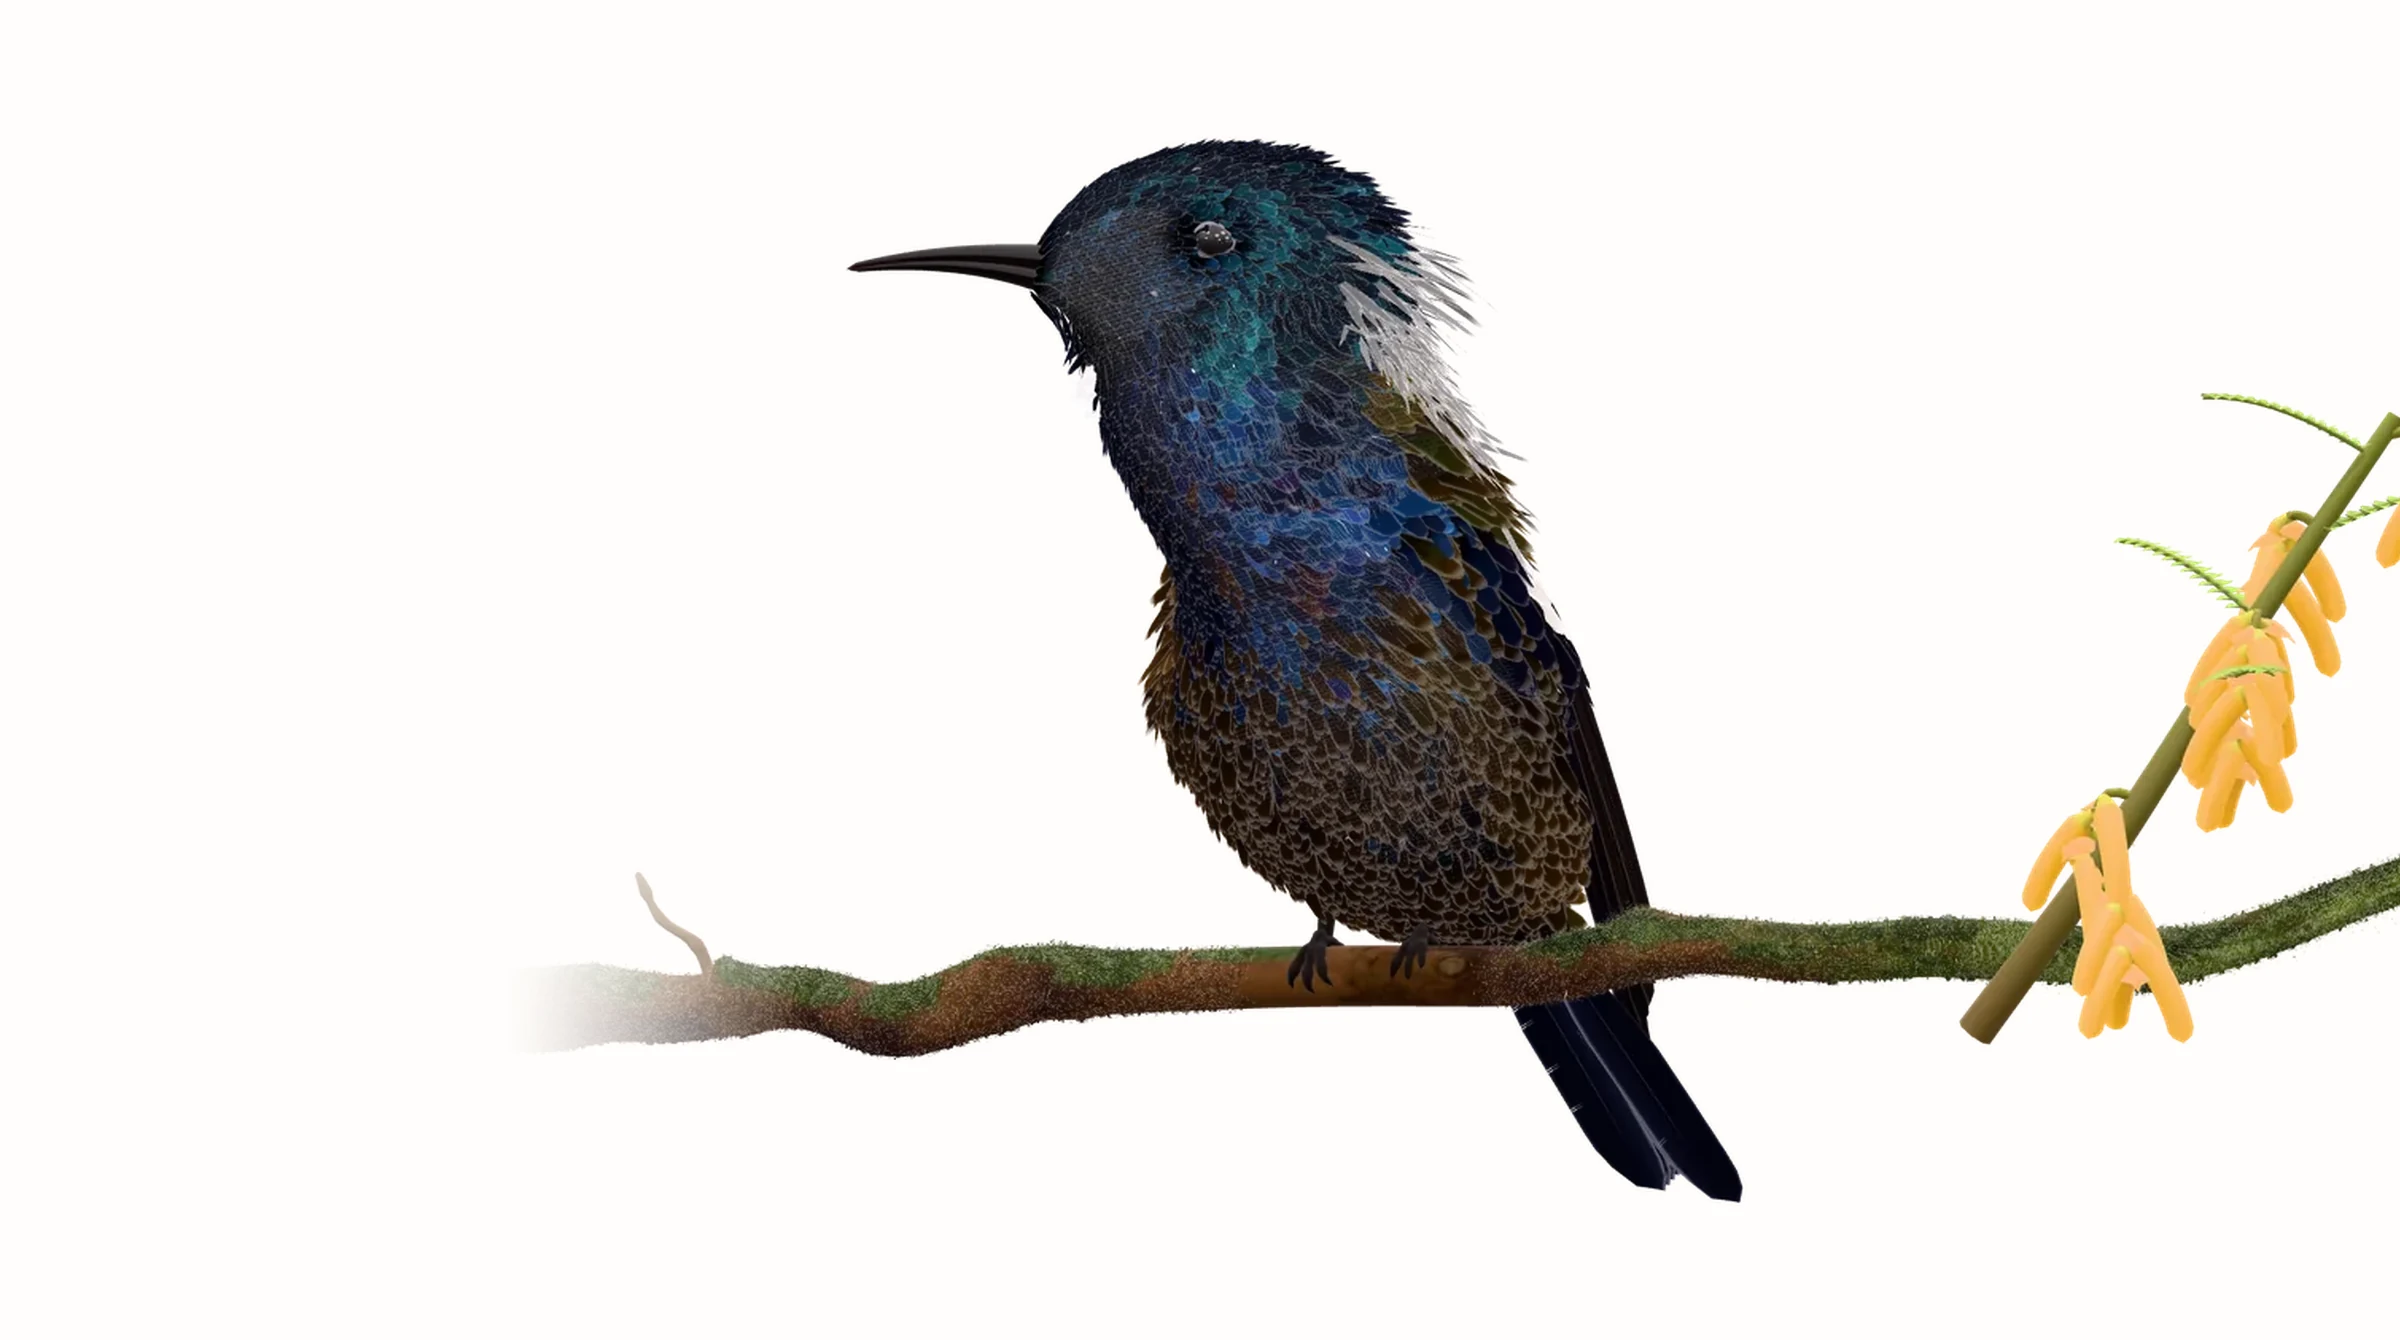
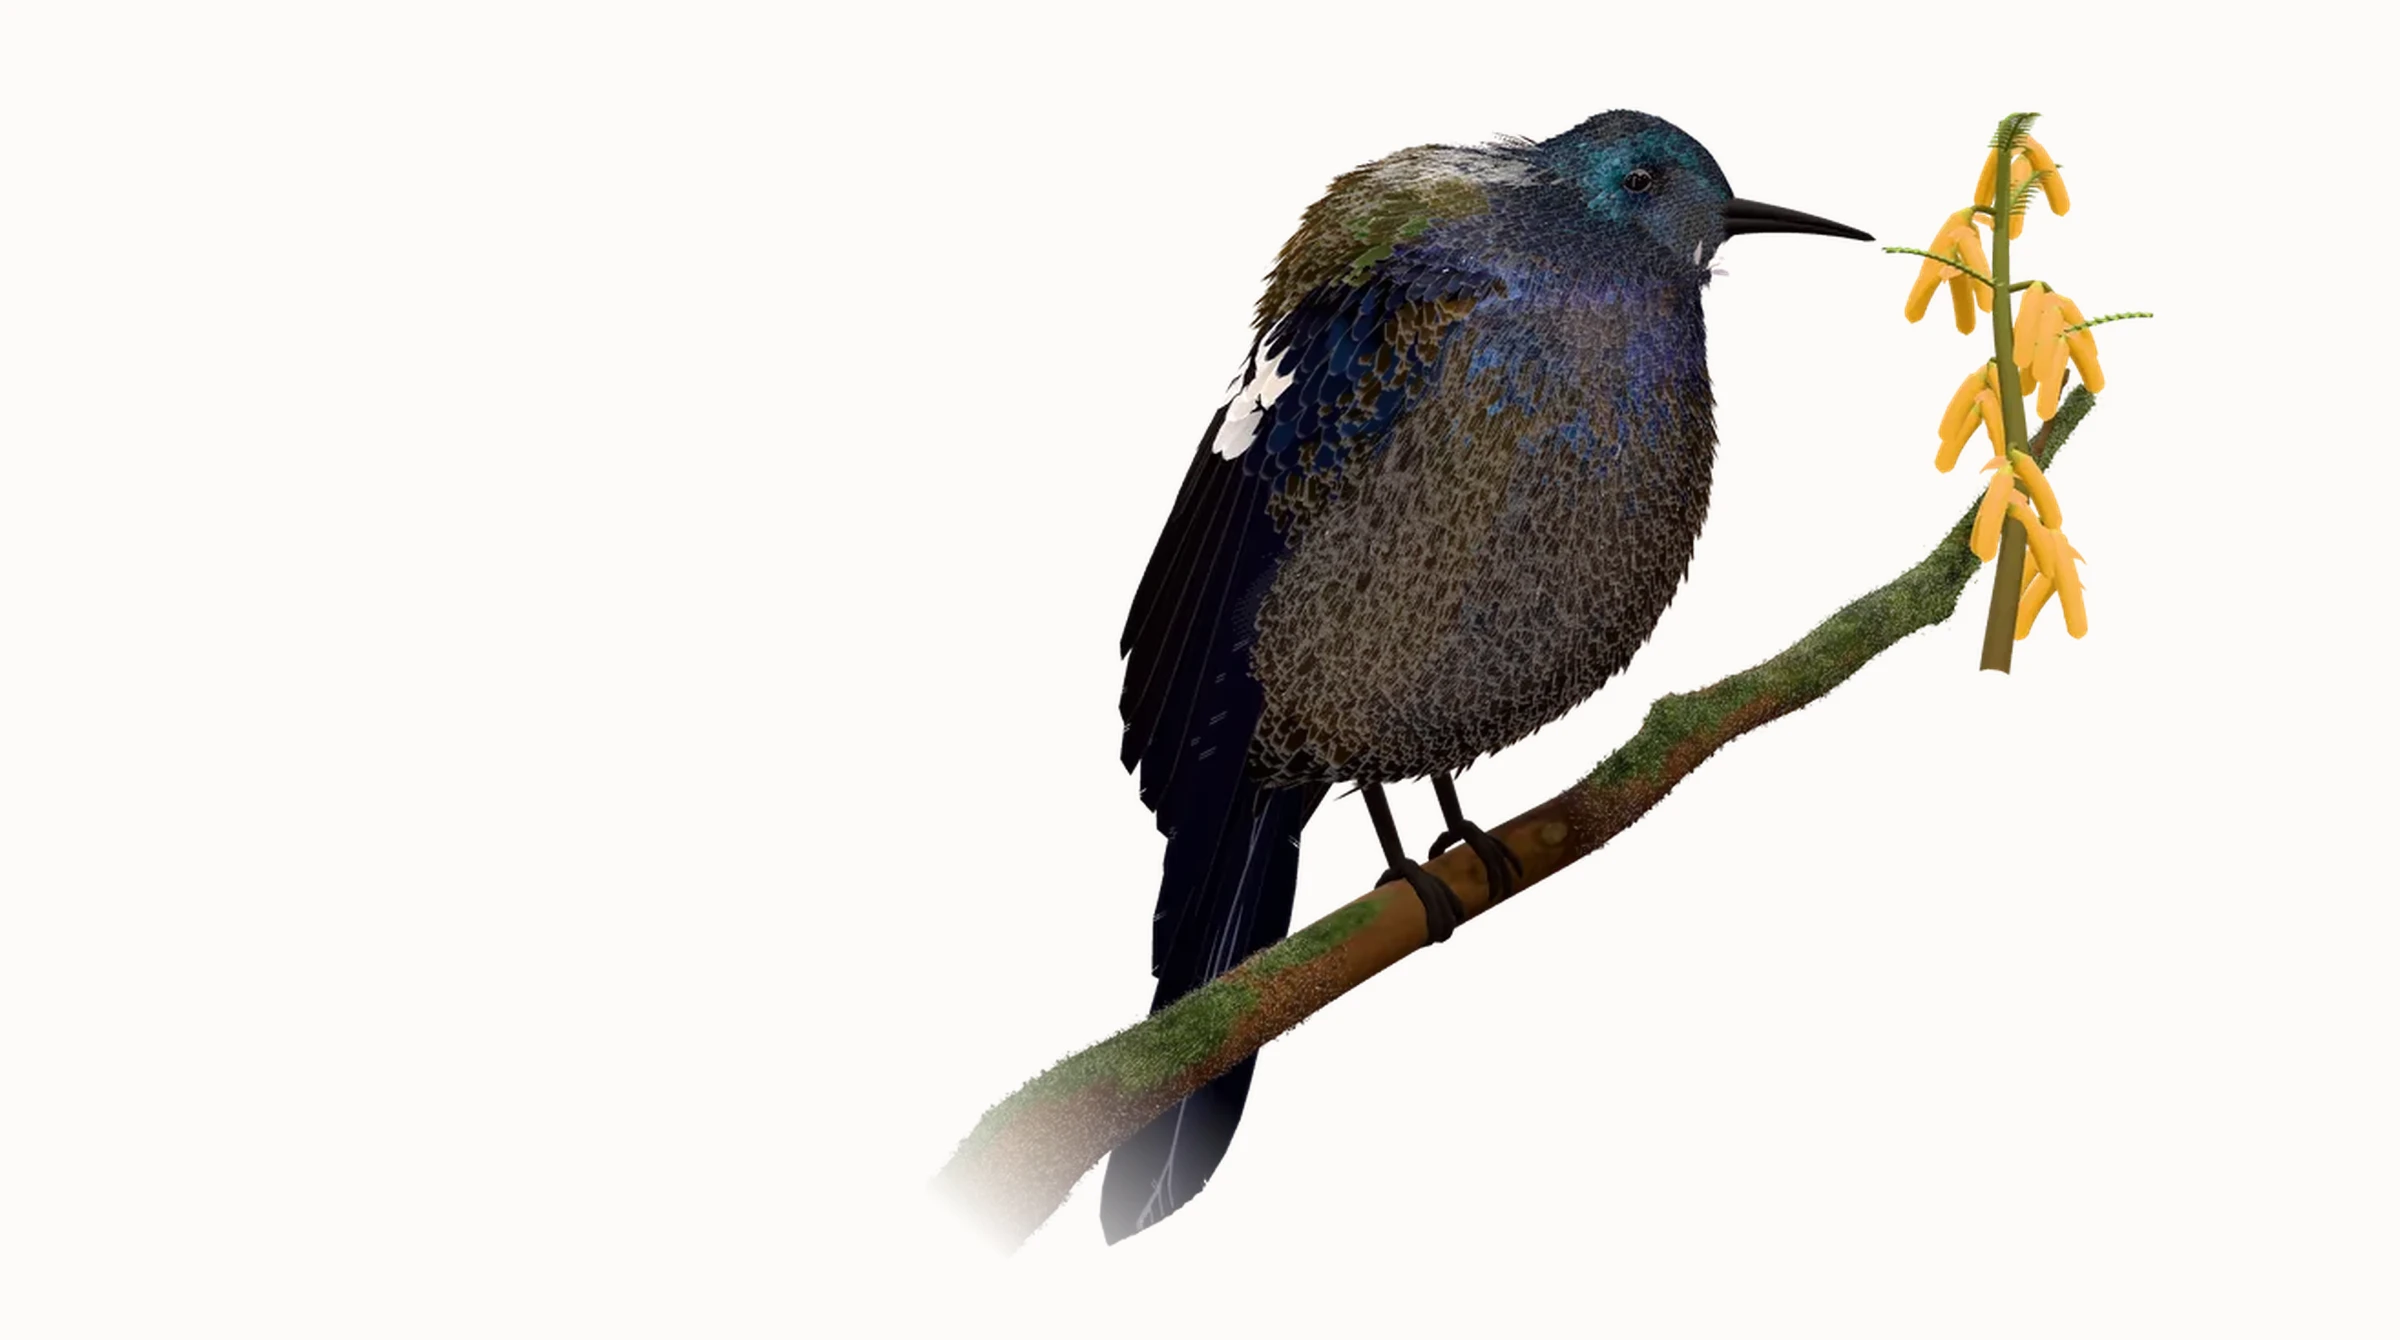
Lab home: the rebuilt tūī on the Manu window, no patchy colour on hover
Claude-Session: https://claude.ai/code/session_01Qg5XxSRkFNw1UTNv1sp8XK

Changed region(s): [[0.2188, 0.0612, 1.0, 0.9179], [0.9062, 0.2754, 0.9375, 0.306]]

diff --git a/lab/v3/field.js b/lab/v3/field.js
@@ -9,7 +9,7 @@ const canvas = document.getElementById("field");
 const windows = [...document.querySelectorAll("[data-scene]")];
 // the lab's pictures: each world as it really runs (captured from the live pages), shown in the three shades until you
 // point at it; Plan Studio's floor plan has its 3D model underneath
-const V = "?v=20261122a";   // pictures are versioned so a browser never mixes an old picture with a new page
+const V = "?v=20261123b";   // pictures are versioned so a browser never mixes an old picture with a new page
 const IMG = (n) => `/lab/v3/img/${n}.webp${V}`;
 // the lab's two worlds: the 16A floor plan drawn from its plan model, with the three.js model built from it underneath;
 // Manu's birds as they render on their own pages; assembl's own house sketches to close; and, to open, the plan drop
@@ -20,6 +20,8 @@ const UNDER = { plan16a: "model16a" };              // the plan, with the model 
 const FOCUS = { house: [0.2, 0], birds: [0.16, 0], plan16a: [0.3, 0], model16a: [0.1, 0], tui: [0.2, 0], sketches: [0.3, 0] };
 const MIST = { house: 1, birds: 1, plan16a: 1, tui: 1, sketches: 0.6 };
 const LIFT = {};
+// pictures that do not turn over under the pointer (a photo-real model reads as broken when patches of it change colour)
+const NOHOVER = new Set(["tui"]);
 
 function fallback() {
   document.documentElement.classList.add("no-field");
@@ -105,7 +107,7 @@ else {
     for (let k = 0; k < gridN; k++) {
       const cx = (k % gridCols + 0.5) * tile - px, cy = (Math.floor(k / gridCols) + 0.5) * tile - py;
       const passed = wave >= order[k], all = waveT0 ? (allOn ? passed : !passed) : false;
-      const want = (cx * cx + cy * cy < R2 || all) ? 1 : 0, v = flipV[k];
+      const want = ((!NOHOVER.has(current) && cx * cx + cy * cy < R2) || all) ? 1 : 0, v = flipV[k];
       if (v !== want) { flipV[k] = want > v ? Math.min(1, v + step) : Math.max(0, v - step); busy = true; }
     }
     if (wave > 0 && wave < 1.2) busy = true; else if (wave >= 1.2 && !allOn) waveT0 = 0;

diff --git a/index.html b/index.html
@@ -100,7 +100,7 @@
   </div>
 </footer>
 
-<script type="module" src="/lab/v3/field.js?v=20261122a"></script>
+<script type="module" src="/lab/v3/field.js?v=20261123b"></script>
 <script type="module" src="/lab/v3/motion.js?v=20261122a"></script>
 <script type="module" src="/lab/v3/more.js?v=20261123a"></script>
 </body>
